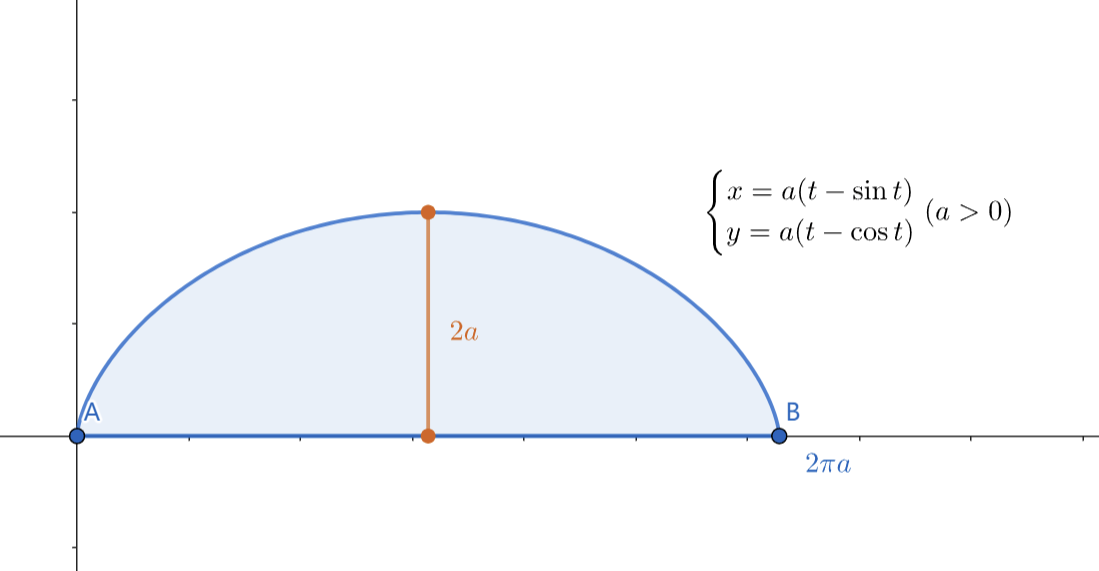
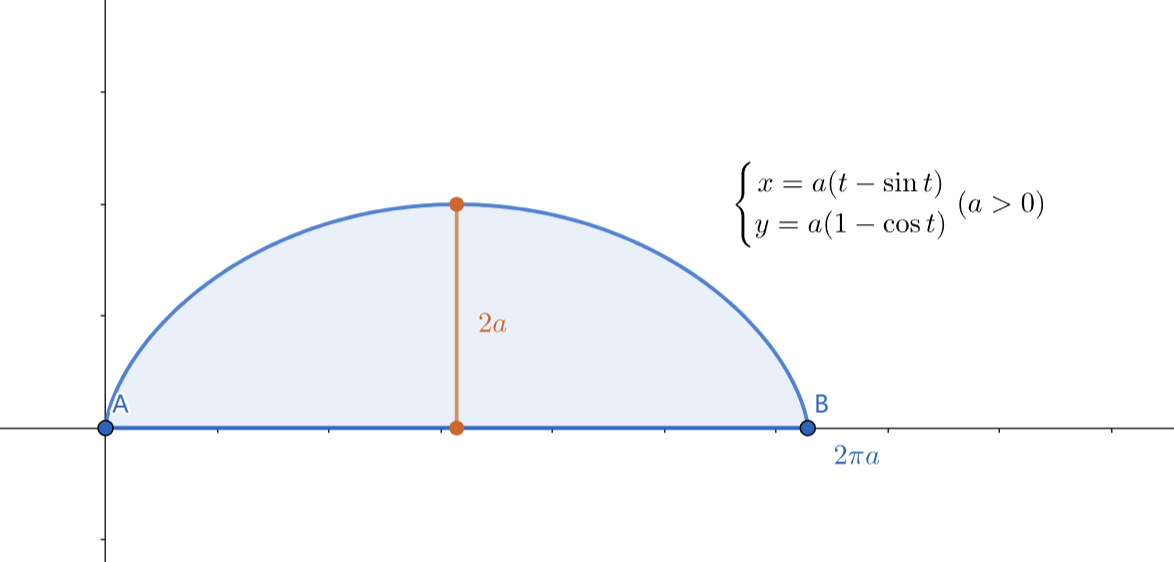
backup: 2024-06-18 17:17

diff --git a/1-4. 一元函数积分学/3. 应用/平面图形的面积.md b/1-4. 一元函数积分学/3. 应用/平面图形的面积.md
@@ -32,7 +32,7 @@ $$\int^{\beta}_{\alpha} |r_{1}^{2}(\theta) - r_{2}^{2}(\theta)| \mathrm{d}x$$
 通过换元，化成 [[#直角坐标系]] 即可。
 
 > [!example] 例10.2
-> 已知摆线：$$\left\{\begin{matrix} x=a(t-\sin t) \\ y=a(t-\cos t) \end{matrix}\right. ~(a>0)$$ 求一拱与 $x$ 轴所围图形面积。
+> 已知摆线：$$\left\{\begin{matrix} x=a(t-\sin t) \\ y=a(1-\cos t) \end{matrix}\right. ~(a>0)$$ 求一拱与 $x$ 轴所围图形面积。
 > 
 > > [!note] 
 > > 考试时需要自己画图，题目不会告诉你！所以请记忆比较重要的函数图像。具体见书上附录部分。
